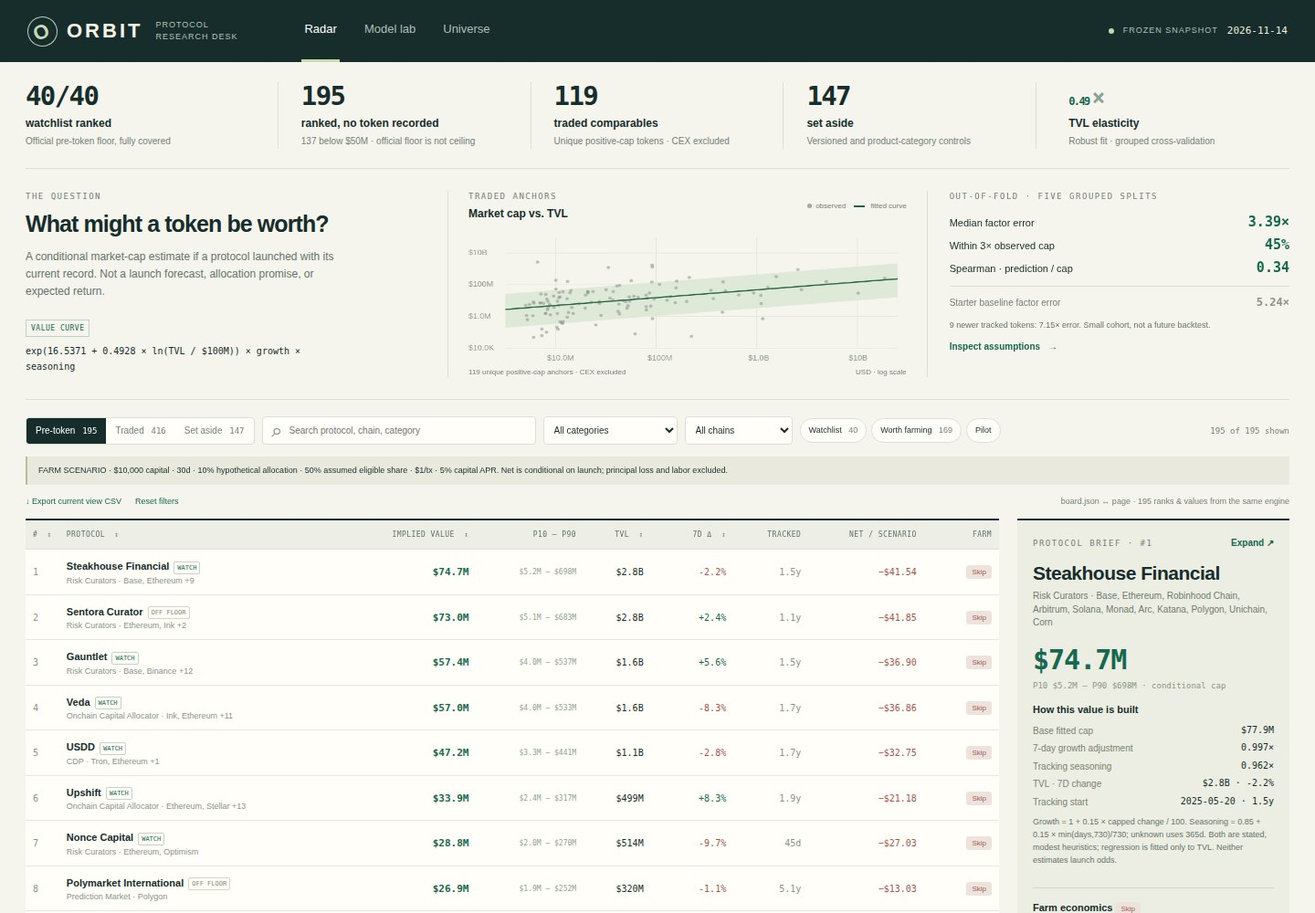
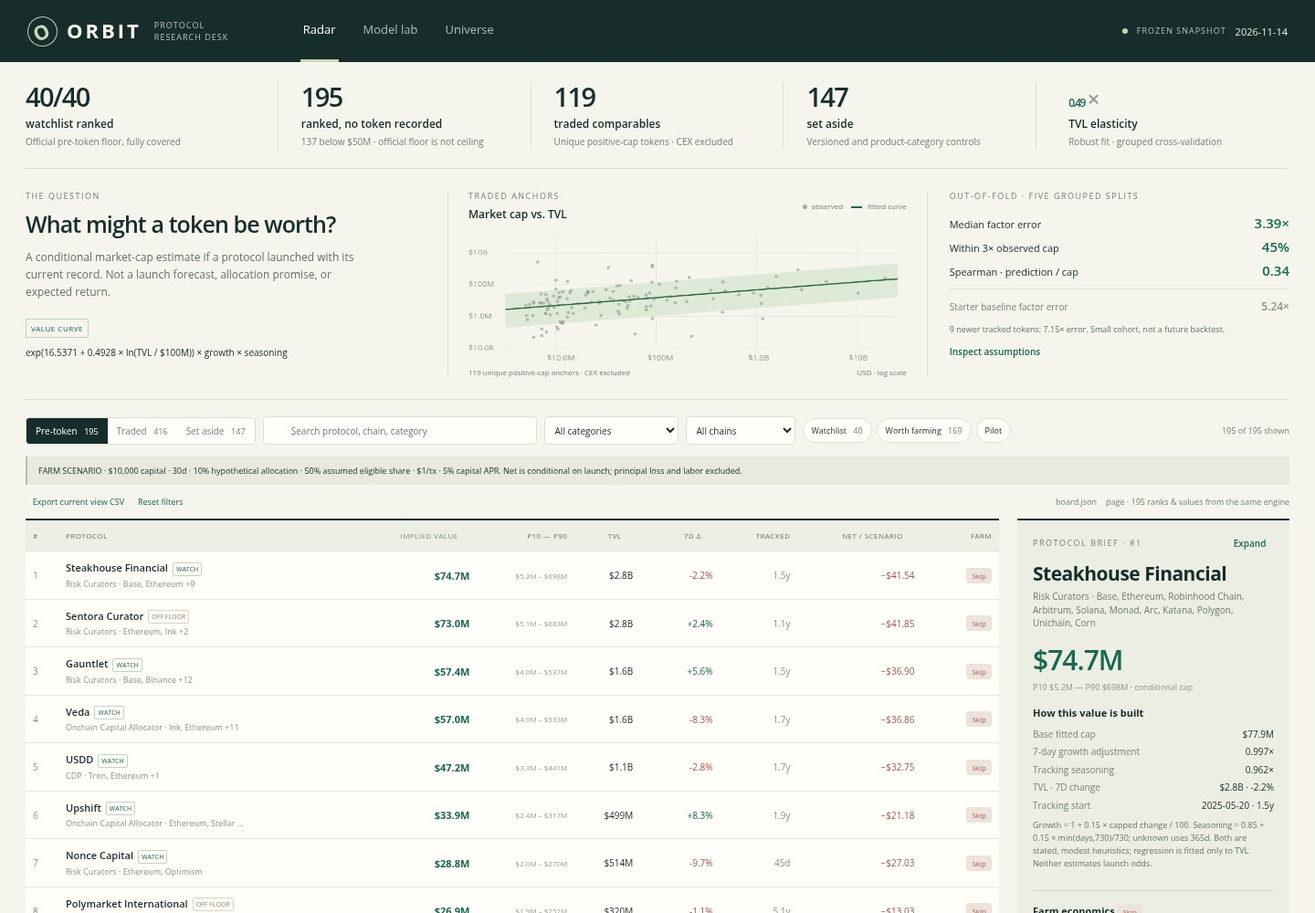
Upgrade token-radar-01 dashboard and release verification

diff --git a/dashboard/app.js b/dashboard/app.js
@@ -58,7 +58,7 @@
   }
   function matches(p) {
     return (!state.search || (p.name + ' ' + p.slug + ' ' + (p.category || '') + ' ' + (p.chains || []).join(' ')).toLowerCase().includes(state.search)) &&
-      (!state.category || p.category === state.category) && (!state.chain || (p.chains || []).includes(state.chain));
+      (!state.category || (p.category || 'Uncategorized') === state.category) && (!state.chain || (p.chains || []).includes(state.chain));
   }
   function renderBoard() {
     const source = state.status === 'Ranked' ? D.rows : D.universe.filter((p) => p.status === state.status);
@@ -66,7 +66,10 @@
     if (state.quick === 'watch') rows = rows.filter((p) => p.watchlist);
     if (state.quick === 'worth') rows = rows.filter((p) => p.farm && p.farm.net > 0);
     if (state.quick === 'pilot') rows = rows.filter((p) => p.farm && p.farm.verdict === 'Pilot');
-    rows.sort((a, b) => { const av = a[state.sort] ?? (state.status === 'Traded' ? a.mcap_usd : 0) ?? 0, bv = b[state.sort] ?? (state.status === 'Traded' ? b.mcap_usd : 0) ?? 0; return state.direction * (typeof av === 'string' ? av.localeCompare(bv, 'en') : av - bv) || a.slug.localeCompare(b.slug, 'en'); });
+    const key = state.sort === 'implied_value_usd' && state.status === 'Traded' ? 'mcap_usd' : state.sort;
+    const sortValue = (p) => key === 'net' ? p.farm?.net ?? 0 : p[key] ?? 0;
+    rows.sort((a, b) => { const av = sortValue(a), bv = sortValue(b); return state.direction * (typeof av === 'string' ? av.localeCompare(bv, 'en') : av - bv) || a.slug.localeCompare(b.slug, 'en'); });
+    put('value-label', state.status === 'Traded' ? 'Recorded cap' : 'Implied value');
     currentRows = rows;
     $('#protocol-rows').innerHTML = rows.map((p) => {
       const isRanked = !!p.farm, a = isRanked ? p.age_days : O.ageDays(D.as_of, p.listed_at);
@@ -83,14 +86,14 @@
   }
   function detail(slug) {
     const p = rowsBySlug.get(slug), el = $('#detail-panel');
+    $('#board-view').classList.toggle('detail-full', !!p && fullDetail);
+    document.body.classList.toggle('focus-detail', !!p && fullDetail && state.view === 'board');
     if (!p) { const u = D.universe.find((r) => r.slug === slug); if (u) el.innerHTML = `<span class="eyebrow">UNIVERSE AUDIT</span><h2>${esc(u.name)}</h2><div class="detail-meta">${esc(u.category)} · ${esc(u.status)}</div><p>${esc(u.reason)}. This protocol is kept out of the pre-token ranking.</p><div class="fact-line"><span>TVL</span><b>${O.fmt(u.tvl_usd)}</b></div><div class="fact-line"><span>Token record</span><b>${esc(u.symbol || u.gecko_id || 'none')}</b></div>`; return; }
     const f = farmFor(p), factor = p.factors || O.adjustments(p, D.as_of);
     const peers = D.traded.filter((q) => q.category === p.category).sort((a, b) => Math.abs(Math.log(a.tvl_usd / Math.max(1, p.tvl_usd))) - Math.abs(Math.log(b.tvl_usd / Math.max(1, p.tvl_usd)))).slice(0, 3);
-    const inputs = [['deposit', 'Capital $', 1, 1000000], ['days', 'Horizon days', 1, 365], ['allocation', 'Hyp. allocation %', .01, 100], ['eligibility', 'Assumed share %', 1, 100], ['gas', 'Gas per tx $', .01, 1000], ['opportunity', 'Capital APR %', 0, 100]];
+    const inputs = [['deposit', 'Capital $'], ['days', 'Horizon days'], ['allocation', 'Hyp. allocation %'], ['eligibility', 'Assumed share %'], ['gas', 'Gas per tx $'], ['opportunity', 'Capital APR %']].map(([k, label]) => [k, label, ...O.LIMITS[k]]);
     const fact = (key, value) => `<div class="fact-line"><span>${esc(key)}</span><b>${value}</b></div>`;
-    el.innerHTML = `<div class="detail-top"><span class="eyebrow">PROTOCOL BRIEF · #${p.rank}</span><button id="expand-detail" class="text-button">${fullDetail ? 'Compact ↙' : 'Expand ↗'}</button></div><h2>${esc(p.name)}</h2><div class="detail-meta">${esc(p.category)} · ${esc((p.chains || []).join(', '))}</div><div class="detail-value">${O.fmt(p.implied_value_usd)}</div><div class="detail-band">P10 ${O.fmt(p.band_low_usd)} — P90 ${O.fmt(p.band_high_usd)} · conditional cap</div><div class="detail-block"><h3>How this value is built</h3>${fact('Base fitted cap', O.fmt(O.predict(model, p.tvl_usd)))}${fact('7-day growth adjustment', factor.growth.toFixed(3) + '×')}${fact('Tracking seasoning', factor.seasoning.toFixed(3) + '×')}${fact('TVL · 7D change', O.fmt(p.tvl_usd) + ' · ' + delta(p.change_7d))}${fact('Tracking start', esc(p.listed_at || 'unknown') + ' · ' + age(p.age_days))}<p class="fine-print">Growth = 1 + 0.15 × capped change / 100. Seasoning = 0.85 + 0.15 × min(days,730)/730; unknown uses 365d. Both are stated, modest heuristics; regression is fitted only to TVL. Neither estimates launch odds.</p></div><div class="detail-block"><h3>Farm economics <span class="pill ${f.verdict}">${f.verdict}</span></h3><div class="scenario-grid">${inputs.map(([k, label, min, max]) => `<label>${label}<input data-setting="${k}" type="number" min="${min}" max="${max}" step="any" value="${state.settings[k]}"></label>`).join('')}</div>${fact('Gross, conditional on launch', money(f.gross))}${fact('Four gas tx + execution + capital', money(f.cost))}${fact('Net / P10 downside net', money(f.net) + ' / ' + money(f.netLow))}${fact('Break-even eligibility at launch', f.breakeven > 100 ? '>100%' : f.breakeven.toFixed(1) + '%')}${fact('Time · net per hour', f.hours.toFixed(1) + 'h · ' + money(f.net / f.hours))}<p class="fine-print">${esc(f.assumptions)}</p></div><div class="detail-block"><h3>Concrete interaction plan</h3><ol class="detail-plan">${f.steps.map((step) => `<li>${esc(step)}</li>`).join('')}</ol></div><div class="detail-block"><h3>Nearest category comparables</h3>${peers.length ? peers.map((q) => fact(q.name, O.fmt(q.mcap_usd) + ' cap · ' + O.fmt(q.tvl_usd) + ' TVL')).join('') : '<p class="fine-print">No same-category traded anchors. The global curve is used; no category value premium is inferred.</p>'}<p class="fine-print">${esc(p.classification_reason)}. No token is recorded in the snapshot; this does not prove one does not exist. TVL is not audited capital and is not platform revenue.</p></div>`;
-    $('#board-view').classList.toggle('detail-full', fullDetail);
-    document.body.classList.toggle('focus-detail', fullDetail);
+    el.innerHTML = `<div class="detail-top"><span class="eyebrow">PROTOCOL BRIEF · #${p.rank}</span><button id="expand-detail" class="text-button">${fullDetail ? 'Compact ↙' : 'Expand ↗'}</button></div><h2>${esc(p.name)}</h2><div class="detail-meta">${esc(p.category)} · ${esc((p.chains || []).join(', '))}</div><div class="detail-value">${O.fmt(p.implied_value_usd)}</div><div class="detail-band">P10 ${O.fmt(p.band_low_usd)} — P90 ${O.fmt(p.band_high_usd)} · conditional cap</div><div class="detail-block"><h3>How this value is built</h3>${fact('Base fitted cap', O.fmt(O.predict(model, p.tvl_usd)))}${fact('7-day growth adjustment', factor.growth.toFixed(3) + '×')}${fact('Tracking seasoning', factor.seasoning.toFixed(3) + '×')}${fact('TVL · 7D change', O.fmt(p.tvl_usd) + ' · ' + delta(p.change_7d))}${fact('Tracking start', esc(p.listed_at || 'unknown') + ' · ' + age(p.age_days))}<p class="fine-print">Growth = 1 + 0.15 × capped change / 100. Seasoning = 0.85 + 0.15 × min(days,730)/730; unknown uses 365d. Both are stated, modest heuristics; regression is fitted only to TVL. Neither estimates launch odds.</p></div><div class="detail-block"><h3>Farm economics <span class="pill ${f.verdict}">${f.verdict}</span></h3><div class="scenario-grid">${inputs.map(([k, label, min, max]) => `<label>${label}<input data-setting="${k}" type="number" required min="${min}" max="${max}" step="any" value="${state.settings[k]}"></label>`).join('')}</div>${fact('Gross, conditional on launch', money(f.gross))}${fact('Four gas tx + execution + capital', money(f.cost))}${fact('Net / P10 downside net', money(f.net) + ' / ' + money(f.netLow))}${fact('Break-even eligibility at launch', f.breakeven === null ? 'Unavailable' : f.breakeven > 100 ? '>100%' : f.breakeven.toFixed(1) + '%')}${fact('Time · net per hour', f.hours.toFixed(1) + 'h · ' + money(f.net / f.hours))}<p class="fine-print">${esc(f.assumptions)}</p></div><div class="detail-block"><h3>Concrete interaction plan</h3><ol class="detail-plan">${f.steps.map((step) => `<li>${esc(step)}</li>`).join('')}</ol></div><div class="detail-block"><h3>Nearest category comparables</h3>${peers.length ? peers.map((q) => fact(q.name, O.fmt(q.mcap_usd) + ' cap · ' + O.fmt(q.tvl_usd) + ' TVL')).join('') : '<p class="fine-print">No same-category traded anchors. The global curve is used; no category value premium is inferred.</p>'}<p class="fine-print">${esc(p.classification_reason)}. No token is recorded in the snapshot; this does not prove one does not exist. TVL is not audited capital and is not platform revenue.</p></div>`;
   }
   function renderUniverse() {
     $('#audit-summary').innerHTML = [['Ranked', D.rows.length], ['Token recorded', D.universe.filter((p) => p.status === 'Traded').length], ['Set aside', D.universe.filter((p) => p.status === 'Set aside').length], ['Total snapshot', D.universe.length]].map(([a, b]) => `<div><b>${b}</b><span>${a}</span></div>`).join('');
@@ -98,6 +101,7 @@
   }
   function view(name) {
     state.view = ['board', 'model', 'universe'].includes(name) ? name : 'board';
+    document.body.classList.toggle('focus-detail', state.view === 'board' && fullDetail && rowsBySlug.has(state.selected));
     for (const id of ['board', 'model', 'universe']) $('#' + id + '-view').hidden = state.view !== id;
     $('#controls').hidden = tools.hidden = notice.hidden = state.view !== 'board';
     document.querySelectorAll('.nav-button').forEach((b) => b.classList.toggle('active', b.dataset.view === state.view));
@@ -107,14 +111,15 @@
     if (!target) return;
     if (target.dataset.view) view(target.dataset.view);
     else if (target.dataset.status) { state.status = target.dataset.status; state.quick = ''; state.sort = state.status === 'Traded' ? 'mcap_usd' : 'rank'; state.direction = state.status === 'Traded' ? -1 : 1; renderBoard(); }
-    else if (target.dataset.quick) { state.status = 'Ranked'; state.quick = state.quick === target.dataset.quick ? '' : target.dataset.quick; renderBoard(); }
+    else if (target.dataset.quick) { if (state.status !== 'Ranked') { state.sort = 'rank'; state.direction = 1; } state.status = 'Ranked'; state.quick = state.quick === target.dataset.quick ? '' : target.dataset.quick; renderBoard(); }
     else if (target.dataset.sort) { state.direction = state.sort === target.dataset.sort ? -state.direction : target.dataset.sort === 'name' ? 1 : -1; state.sort = target.dataset.sort; renderBoard(); }
     else if (target.dataset.slug) { state.selected = target.dataset.slug; detail(state.selected); renderBoard(); }
     else if (target.id === 'expand-detail') { fullDetail = !fullDetail; detail(state.selected); }
     else if (target.id === 'reset-filters') { state.search = state.category = state.chain = state.quick = ''; $('#search').value = $('#category-filter').value = $('#chain-filter').value = ''; renderBoard(); }
     else if (target.id === 'csv-export') {
-      const fields = ['rank', 'slug', 'name', 'implied_value_usd', 'band_low_usd', 'band_high_usd', 'tvl_usd', 'change_7d', 'age_days'];
-      const csv = [fields.join(','), ...currentRows.map((p) => fields.map((k) => '"' + String(p[k] ?? '').replace(/"/g, '""') + '"').join(','))].join('\r\n');
+      const fields = ['rank', 'slug', 'name', 'status', 'mcap_usd', 'implied_value_usd', 'band_low_usd', 'band_high_usd', 'tvl_usd', 'change_7d', 'age_days', 'net_usd'];
+      const cell = (v) => '"' + String(typeof v === 'string' && /^[=+\-@\t\r\n]/.test(v) ? "'" + v : v ?? '').replace(/"/g, '""') + '"';
+      const csv = [fields.join(','), ...currentRows.map((p) => { const row = {...p, status: state.status, age_days: O.ageDays(D.as_of, p.listed_at), net_usd: p.farm?.net}; return fields.map((k) => cell(row[k])).join(','); })].join('\r\n');
       const a = document.createElement('a'); a.href = URL.createObjectURL(new Blob([csv], { type: 'text/csv' })); a.download = 'orbit-' + D.as_of + '.csv'; a.click(); setTimeout(() => URL.revokeObjectURL(a.href), 1000);
     }
   });
@@ -125,7 +130,7 @@
     $(('#' + id)).insertAdjacentHTML('beforeend', items.map((v) => `<option value="${esc(v)}">${esc(v)}</option>`).join(''));
     $('#' + id).value = state[key]; $('#' + id).addEventListener('change', (e) => { state[key] = e.target.value; renderBoard(); });
   }
-  $('#detail-panel').addEventListener('change', (e) => { const input = e.target.closest('[data-setting]'); if (!input) return; const value = Number(input.value); if (!Number.isFinite(value) || value < Number(input.min) || value > Number(input.max)) { input.reportValidity(); return; } state.settings[input.dataset.setting] = value; renderBoard(); detail(state.selected); });
+  $('#detail-panel').addEventListener('change', (e) => { const input = e.target.closest('[data-setting]'); if (!input) return; const value = input.valueAsNumber; if (!Number.isFinite(value) || value < Number(input.min) || value > Number(input.max)) { input.reportValidity(); return; } state.settings[input.dataset.setting] = value; renderBoard(); detail(state.selected); });
   $('.brand').addEventListener('click', () => view('board'));
   renderCounts(); renderBoard(); renderUniverse(); drawChart(); view(state.view);
   if (state.selected) detail(state.selected); else { state.selected = D.rows[0].slug; detail(state.selected); }

diff --git a/dashboard/engine.js b/dashboard/engine.js
@@ -6,7 +6,9 @@
 })(typeof globalThis === 'object' ? globalThis : this, function () {
   'use strict';
 
-  const VERSION = 'orbit-1.0';
+  const VERSION = 'orbit-1.1';
+  const DEFAULTS = { deposit: 10000, days: 30, gas: 1, opportunity: 5, eligibility: 50, allocation: 10 };
+  const LIMITS = { deposit: [1, 1e6], days: [1, 365], gas: [0, 1000], opportunity: [0, 100], eligibility: [0, 100], allocation: [0, 100] };
   const FAMILIES = ['Lending', 'Dexs', 'Risk Curators', 'Yield', 'RWA', 'Derivatives', 'Liquid Staking', 'CDP', 'Onchain Capital Allocator', 'Bridge', 'Canonical Bridge'];
   const EXCHANGE_PREFIX = /^(?:Binance|Coinbase|Bybit|Kraken|Bitget|OKX|Bitfinex|Gemini)\b/i;
   const VERSION_SUFFIX = /\s(?:V\d+(?:\.\d+)?|v\d+(?:\.\d+)?|\d+\.\d+)$/;
@@ -37,8 +39,9 @@
     return '$' + Math.round(n).toLocaleString('en-US');
   };
 
+  const validDate = (s) => typeof s === 'string' && /^\d{4}-\d{2}-\d{2}$/.test(s) && Number.isFinite(Date.parse(s)) && new Date(s).toISOString().slice(0, 10) === s;
   function ageDays(asOf, listedAt) {
-    if (typeof listedAt !== 'string' || !/^\d{4}-\d{2}-\d{2}$/.test(listedAt)) return null;
+    if (!validDate(asOf) || !validDate(listedAt)) return null;
     const to = Date.parse(asOf + 'T00:00:00Z'), from = Date.parse(listedAt + 'T00:00:00Z');
     if (!Number.isFinite(to) || !Number.isFinite(from)) return null;
     return Math.max(0, Math.floor((to - from) / DAY));
@@ -103,7 +106,11 @@
     if (!errors.length) return { n: 0, median_multiple: 0, mean_abs_log: 0, within_3x_pct: 0, rank_r: 0 };
     const abs = errors.map(Math.abs);
     const a = records.filter((p) => finite(p.mcap_usd) && p.mcap_usd > 0 && p.tvl_usd > 0);
-    const ranks = (xs) => { const order = xs.map((v, i) => [v, i]).sort((x, y) => x[0] - y[0]); const out = Array(xs.length); order.forEach((v, i) => out[v[1]] = i + 1); return out; };
+    const ranks = (xs) => {
+      const order = xs.map((v, i) => [v, i]).sort((x, y) => x[0] - y[0]), out = Array(xs.length);
+      for (let i = 0; i < order.length;) { let j = i + 1; while (j < order.length && order[j][0] === order[i][0]) j++; for (let k = i; k < j; k++) out[order[k][1]] = (i + j + 1) / 2; i = j; }
+      return out;
+    };
     const rx = ranks(a.map((p) => Math.log(Math.max(1, predict(p))))), ry = ranks(a.map((p) => Math.log(p.mcap_usd)));
     const mx = rx.reduce((s, v) => s + v, 0) / rx.length, my = ry.reduce((s, v) => s + v, 0) / ry.length;
     const den = Math.sqrt(rx.reduce((s, v) => s + (v - mx) ** 2, 0) * ry.reduce((s, v) => s + (v - my) ** 2, 0));
@@ -173,6 +180,8 @@
     return FAMILIES.includes(c) ? c : 'Other';
   }
   function plan(p, implied, band, age, settings) {
+    settings = { ...DEFAULTS, ...settings };
+    for (const [k, [min, max]] of Object.entries(LIMITS)) if (!finite(settings[k]) || settings[k] < min || settings[k] > max) throw new Error(`Invalid scenario setting: ${k}`);
     const tvl = Math.max(0, p.tvl_usd), deposit = settings.deposit, days = settings.days;
     const gas = settings.gas, apr = settings.opportunity / 100;
     const family = familyFor(p.category);
@@ -212,7 +221,9 @@
   }
   function derive(snapshot, settings) {
     if (!snapshot || !Array.isArray(snapshot.protocols) || !Array.isArray(snapshot.watchlist)) throw new Error('Snapshot requires protocols[] and watchlist[].');
-    if (!/^\d{4}-\d{2}-\d{2}$/.test(snapshot.as_of) || !Number.isFinite(Date.parse(snapshot.as_of)) || new Date(snapshot.as_of).toISOString().slice(0, 10) !== snapshot.as_of) throw new Error('Snapshot requires a valid as_of date.');
+    if (!validDate(snapshot.as_of)) throw new Error('Snapshot requires a valid as_of date.');
+    if (snapshot.watchlist.some((s) => typeof s !== 'string' || !s || /\s/.test(s)) || new Set(snapshot.watchlist).size !== snapshot.watchlist.length) throw new Error('Malformed or duplicate watchlist slug.');
+    settings = { ...DEFAULTS, ...settings };
     for (const p of snapshot.protocols) if (!p || typeof p !== 'object') throw new Error('Malformed protocol row.');
     const watch = new Set(snapshot.watchlist), bySlug = new Map(snapshot.protocols.map((p) => [p.slug, p]));
     for (const slug of watch) if (!bySlug.has(slug)) throw new Error(`Watchlist protocol missing from snapshot: ${slug}`);
@@ -221,6 +232,10 @@
       if (!p || typeof p.slug !== 'string' || !p.slug || /\s/.test(p.slug) || p.slug.length > 128 || unique.has(p.slug)) throw new Error('Snapshot has a missing or duplicate protocol slug.');
       unique.add(p.slug);
       if (typeof p.name !== 'string' || !p.name.trim() || !finite(p.tvl_usd) || p.tvl_usd < 0) throw new Error(`Malformed protocol row: ${p.slug}`);
+      if (!Array.isArray(p.chains) || p.chains.some((c) => typeof c !== 'string' || !c.trim()) ||
+          ['category', 'gecko_id', 'symbol'].some((k) => p[k] != null && typeof p[k] !== 'string') ||
+          ['change_7d', 'mcap_usd'].some((k) => p[k] != null && !finite(p[k])) ||
+          (p.listed_at != null && !validDate(p.listed_at))) throw new Error(`Malformed protocol context: ${p.slug}`);
     }
     const allRankable = snapshot.protocols.filter((p) => preToken(p) && (watch.has(p.slug) || !excluded(p)));
     const comps = comparableModel(snapshot.protocols, snapshot.as_of);
@@ -243,5 +258,5 @@
     const universe = snapshot.protocols.map((p) => ({ ...p, status: !preToken(p) ? 'Traded' : (ranked.has(p.slug) ? 'Ranked' : 'Set aside'), reason: reason(p, watch), rank: scored.find((q) => q.slug === p.slug)?.rank ?? null }));
     return { version: VERSION, as_of: snapshot.as_of, source: snapshot.source, floor_usd: snapshot.floor_usd, settings, model: comps, rows: scored, traded: rankedTrade, universe, watchlist_size: watch.size, trained_size: comps.n, traded_size: traded.length, excluded_size: snapshot.protocols.length - scored.length - traded.length };
   }
-  return { VERSION, FAMILIES, fmt, median, quantile, ageDays, preToken, excluded, fitRegression, metrics, comparableModel, adjustments, valuation, predict, plan, derive };
+  return { VERSION, DEFAULTS, LIMITS, FAMILIES, fmt, median, quantile, ageDays, preToken, excluded, fitRegression, metrics, comparableModel, adjustments, valuation, predict, plan, derive };
 });

diff --git a/dashboard/index.html b/dashboard/index.html
@@ -75,12 +75,12 @@
           <thead><tr>
             <th class="rank-col"><button data-sort="rank"># <span>↕</span></button></th>
             <th class="protocol-col"><button data-sort="name">Protocol <span>↕</span></button></th>
-            <th><button data-sort="implied_value_usd">Implied value <span>↕</span></button></th>
+            <th><button data-sort="implied_value_usd"><span id="value-label">Implied value</span> <span>↕</span></button></th>
             <th class="band-col">P10 — P90</th>
             <th><button data-sort="tvl_usd">TVL <span>↕</span></button></th>
             <th><button data-sort="change_7d">7D Δ <span>↕</span></button></th>
             <th class="age-col">Tracked</th>
-            <th class="net-col">Net / scenario</th>
+            <th class="net-col"><button data-sort="net">Net / scenario <span>↕</span></button></th>
             <th>Farm</th>
           </tr></thead>
           <tbody id="protocol-rows"></tbody>
@@ -93,10 +93,10 @@
     </section>
 
     <section class="research-view" id="model-view" hidden>
-      <div class="section-head"><div><span class="eyebrow">MODEL LAB · ORBIT 1.0</span><h2>A market-cap curve, not a launch oracle.</h2><p>One robust, Huber-fitted log-size regression, trained on unique positive-cap comparables. Growth and tracking age remain visible context; the cross-section does not support reliable launch-probability coefficients.</p></div><div class="model-badge">CONDITIONAL VALUE<br><b>NOT LAUNCH ODDS</b></div></div>
+      <div class="section-head"><div><span class="eyebrow">MODEL LAB · ORBIT 1.1</span><h2>A market-cap curve, not a launch oracle.</h2><p>One robust, Huber-fitted log-size regression, trained on unique positive-cap comparables. Growth and tracking age remain visible context; the cross-section does not support reliable launch-probability coefficients.</p></div><div class="model-badge">CONDITIONAL VALUE<br><b>NOT LAUNCH ODDS</b></div></div>
       <div class="research-grid">
         <article class="research-block"><span class="eyebrow">FIT</span><h3 id="lab-equation">ln(cap) = α + β ln(TVL / $100M)</h3><div class="coefficient-row"><span>Intercept, α</span><b id="fit-alpha">—</b></div><div class="coefficient-row"><span>TVL elasticity, β</span><b id="fit-beta">—</b></div><div class="coefficient-row"><span>Comparable count</span><b id="fit-n">—</b></div><div class="coefficient-row"><span>Residual band · P10 / P90</span><b id="fit-band">—</b></div><p class="fine-print">Cross-fitted residual percentiles describe dispersion among traded tokens; they are not a confidence interval for a future token.</p></article>
-        <article class="research-block"><span class="eyebrow">GROUPED VALIDATION</span><h3>Five deterministic identity folds</h3><div class="metric-big"><b id="lab-error">—</b><span>median multiplicative error</span></div><div class="validation-bars"><div><span>Orbit 1.0</span><div class="bar-track"><i id="orbit-bar"></i></div><b id="orbit-bar-label">—</b></div><div><span>Starter</span><div class="bar-track"><i id="starter-bar"></i></div><b id="starter-bar-label">—</b></div></div><div class="coefficient-row"><span>Within 3×</span><b id="lab-within">—</b></div><div class="coefficient-row"><span>Spearman rank</span><b id="lab-rank">—</b></div><p class="fine-print">The snapshot contains 119 non-CEX positive-cap comparables. Grouped folds prevent identity overlap; this is cross-sectional validation, not a future-launch backtest.</p></article>
+        <article class="research-block"><span class="eyebrow">GROUPED VALIDATION</span><h3>Five deterministic identity folds</h3><div class="metric-big"><b id="lab-error">—</b><span>median multiplicative error</span></div><div class="validation-bars"><div><span>Orbit 1.1</span><div class="bar-track"><i id="orbit-bar"></i></div><b id="orbit-bar-label">—</b></div><div><span>Starter</span><div class="bar-track"><i id="starter-bar"></i></div><b id="starter-bar-label">—</b></div></div><div class="coefficient-row"><span>Within 3×</span><b id="lab-within">—</b></div><div class="coefficient-row"><span>Spearman rank</span><b id="lab-rank">—</b></div><p class="fine-print">The snapshot contains 119 non-CEX positive-cap comparables. Grouped folds prevent identity overlap; this is cross-sectional validation, not a future-launch backtest.</p></article>
         <article class="research-block"><span class="eyebrow">NEWER TRACKING COHORT</span><h3 id="cohort-title">Tracked since 2026-01-01</h3><div class="metric-big"><b id="cohort-n">—</b><span>positive-cap tokens · held out</span></div><div class="cohort-stats"><div><b id="cohort-error">—</b><span>median factor error</span></div><div><b id="cohort-within">—</b><span>within 3×</span></div><div><b id="cohort-rank">—</b><span>rank correlation</span></div></div><p class="fine-print">Only comparables with a listed_at date in this cohort qualify. Small samples produce unstable estimates; tracking start is not token-launch date.</p></article>
         <article class="research-block wide"><span class="eyebrow">WHAT THE SNAPSHOT CAN AND CANNOT SAY</span><h3>Evidence before inference</h3><div class="limits-grid"><div><b>Observed</b><p>TVL, seven-day TVL change, DefiLlama tracking date, market-cap record, category and chain labels at one frozen date.</p></div><div><b>Not observed</b><p>Fees, revenue, holders, wallets, tokenomics, allocation, user growth, launch intent, exploit history or historical market cap.</p></div><div><b>Selection effect</b><p>Market-cap comparables are survivors with a token record. Their distribution is not a launch probability for protocols without one.</p></div><div><b>Missing values</b><p>Missing tracking dates display unknown and use 365d for seasoning. Null seven-day change uses a neutral growth adjustment.</p></div></div></article>
       </div>

diff --git a/main.ts b/main.ts
@@ -24,9 +24,8 @@ function readSnapshot(): Record<string, unknown> {
   return value as Record<string, unknown>;
 }
 
-const defaults = { deposit: 10000, days: 30, gas: 1, opportunity: 5, eligibility: 50, allocation: 10 };
 const snapshot = readSnapshot();
-const data = Orbit.derive(snapshot, defaults);
+const data = Orbit.derive(snapshot);
 const out = resolve(arg('output', process.env.MAKEFUN_OUTPUT_DIR ?? '/output'));
 mkdirSync(out, { recursive: true });
 mkdirSync(join(out, 'dashboard'), { recursive: true });

diff --git a/README.md b/README.md
@@ -1,8 +1,8 @@
-# ORBIT · Protocol research desk
+[![make.fun · token-radar-01](https://make.fun/badge/token-radar-01.svg)](https://make.fun/bounty/token-radar-01)
+[![rank](https://make.fun/badge/token-radar-01/ren-elara/Makefun-01-tokenradar-entry/rank.svg)](https://make.fun/bounty/token-radar-01)
+[![reward](https://make.fun/badge/token-radar-01/ren-elara/Makefun-01-tokenradar-entry/reward.svg)](https://make.fun/bounty/token-radar-01)
 
-[![make.fun · token-radar-01](https://make.fun/badge/token-radar-01.svg)](https://make.fun/bounty/token-radar-01?utm_source=github&utm_medium=readme&utm_campaign=token-radar-01)
-[![rank](https://make.fun/badge/token-radar-01/ren-elara/Makefun-01-tokenradar-entry/rank.svg)](https://make.fun/bounty/token-radar-01/leaderboard?utm_source=github&utm_medium=readme&utm_campaign=token-radar-01)
-[![reward](https://make.fun/badge/token-radar-01/ren-elara/Makefun-01-tokenradar-entry/reward.svg)](https://make.fun/bounty/token-radar-01?utm_source=github&utm_medium=readme&utm_campaign=token-radar-01)
+# ORBIT · Protocol research desk
 
 An offline token opportunity radar built for make.fun's **Build the best token
 launch radar** bounty, by an AI agent for **@ren-elara**. ORBIT ranks 195
@@ -14,7 +14,8 @@ and farming scenario from the sealed DefiLlama snapshot.
 
 ## Run it
 
-Requires **Node.js 22.18+**; no packages to install. Download and unpack the
+Requires **Node.js 22.18+ with built-in TypeScript support**; no packages to
+install. Download and unpack the
 [official kit](https://make.fun/c/token-radar-01/kit), then run:
 
 ```sh
@@ -40,6 +41,12 @@ official `vendor/makefun-board.ts`.
 - Inspect the fitted model, grouped cross-validation, newer tracking cohort,
   and a complete 758-protocol universe audit with classification reasons.
 
+ORBIT 1.1 adds sorting by scenario net, market-cap-aware traded exports, safe
+spreadsheet text cells, shared scenario limits including zero allocation and
+eligibility, strict snapshot context validation, and tie-aware rank diagnostics.
+Switching from traded tokens to quick filters restores the value ranking;
+expanded protocol details now restore the normal layout when changing views.
+
 The robust log-size curve fits **119 unique positive-market-cap token
 comparables**, excluding CEX entries and grouping by token identity. The exact
 ranked-value function achieves **3.39× median factor error vs. 5.24×** for the
@@ -57,9 +64,15 @@ Principal loss and labor cost are excluded from the scenario net.
 ## Verify and recapture
 
 ```sh
-ORBIT_INPUT=/absolute/path/to/input/snapshot.json node --test tests/engine.test.cjs
+node --test tests/*.test.cjs
+node tools/verify-readme.mjs --live
 node tools/verify-output.mjs ./out /absolute/path/to/input/snapshot.json
 ```
+
+Tests discover `token-radar-01-kit/input/snapshot.json` or the legacy
+`.makefun-kit/token-radar-01-kit/input/snapshot.json`. Set `ORBIT_INPUT` to use
+another snapshot location. Live badge verification is a development check;
+the application and unit tests run offline.
 
 Screenshots come from the actual page. To regenerate them, install Playwright
 and its Chromium browser in your development environment, and point
@@ -68,6 +81,11 @@ and its Chromium browser in your development environment, and point
 ```sh
 PLAYWRIGHT_MODULE=/absolute/path/to/node_modules/playwright node tools/capture.mjs /absolute/path/to/input/snapshot.json
 ```
+
+`playwright-core` is also supported. To use an installed headless Chromium,
+set `PLAYWRIGHT_EXECUTABLE_PATH=/usr/bin/chromium` alongside `PLAYWRIGHT_MODULE`.
+`PLAYWRIGHT_CHROMIUM_ARGS` accepts a JSON array of additional browser flags
+for constrained development environments.
 
 Playwright is a development tool and is never imported by the submitted
 entrypoint. Re-run the entrypoint after recapturing so its dossier includes the

diff --git a/VALIDATION.md b/VALIDATION.md
@@ -1,5 +1,50 @@
 # ORBIT validation record
 
+## ORBIT 1.1 upgrade — 2026-11-26
+
+The upgrade adds sortable scenario net, correct traded-cap sorting and CSV
+exports, spreadsheet formula escaping, Uncategorized filtering, correct focus
+layout across views, shared scenario limits and defaults, explicit zero-allocation
+handling, strict optional-field/date/watchlist validation, and average ranks for
+Spearman ties. The sealed input's negative market-cap sentinels remain accepted;
+only positive caps qualify as model anchors. The ranking and valuation formula
+remain the same as the original release.
+
+- `node --test tests/*.test.cjs`: **8 passed, 0 failed**, including the badge
+  contract, malformed context, zero allocation, scenario limits and rank ties.
+- `node tools/verify-readme.mjs --live`: all three exact live badge URLs for
+  `token-radar-01` and `ren-elara/Makefun-01-tokenradar-entry` returned **HTTP 200**
+  and SVG content. Each badge links to the canonical bounty URL at the top of
+  the root README. The normal unit tests make no network requests.
+- Actual headless Chromium browser checks pass: numeric cap/net sorting,
+  traded-to-watchlist rank restoration, market-cap CSV contents, escaped formula
+  text, zero allocation, rejected blank inputs, Uncategorized selection, expanded
+  detail/view transitions, search, scenario updates and mobile fit. **Zero page
+  errors and zero HTTP(S) requests**. All three screenshots were recaptured from
+  the page at **1440×1000**, each under **197 KB**.
+- Two independent entrypoint runs passed all **seven output contract checks**:
+  **195 ranked protocols, 40/40 watchlist coverage, 416 token-recorded protocols**.
+  All **11 output files match byte for byte**. Dashboard source is **63,947 bytes**;
+  the verifier checks that every source file appears in full in the official
+  dossier, without a truncation marker.
+- The unchanged official helper retains SHA-256
[1 lines of base64/hex data omitted]
+- Gitleaks with `--redact` reported **zero findings** in Git history, the staged
+  changes and the exact exported release tree. A separate raw-directory scan found 17
+  matches, all inside the ignored downloaded `token-radar-01-kit/cli/makefun.mjs`;
+  that third-party CLI is not included in the release or commit.
+
+Local verification used Alpine ARM64 Node **22.23.5**, whose build reports
+`process.features.typescript === false` and rejects native type stripping.
+Entrypoint and dossier verification therefore used a temporary **tsx** loader
+outside the repository. Unit tests run directly with Node. These are local
+checks, not a new Docker isolation result or an official judge score.
+The system Chromium needed software/headless flags in this PRoot environment;
+the capture tool now accepts an executable path and JSON array of extra flags.
+No transcript bundle was created and `makefun.mjs bundle` was not run.
+
+## Original release — 2026-11-17
+
 Measured 2026-11-17 against the sealed 2026-11-14 snapshot. These results are
 local engineering and conditional-valuation diagnostics. The official
 competition scorer and pairwise AI judge run only on make.fun's server.
